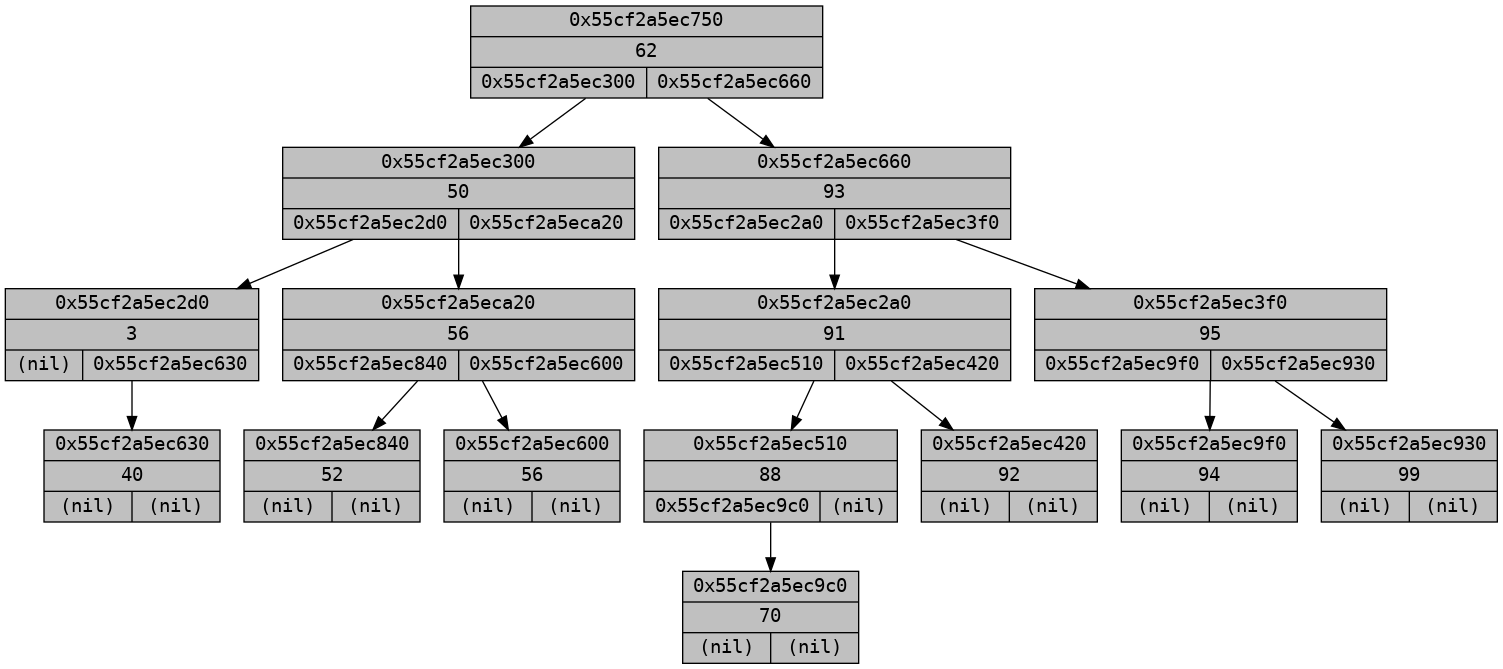
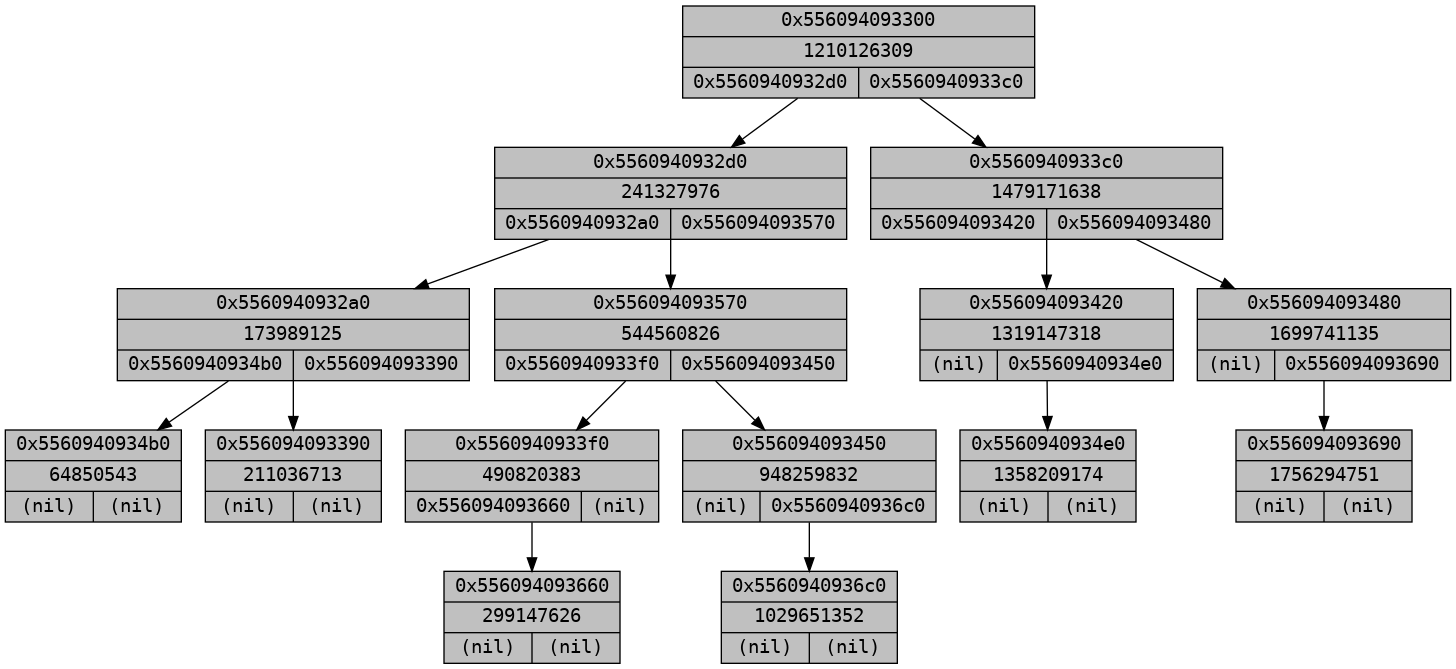
AVL balanceada

diff --git a/relatorio-2/fontes/2.arvore-avl/tree_avl.c b/relatorio-2/fontes/2.arvore-avl/tree_avl.c
@@ -172,241 +172,14 @@ int main(int argc, char **argv){
 
     srand(time(NULL));
     
-
-    //  Jeito certo
-    
     for(i = 0; i < n; i++){
-        tree_insert(&root, tree_new(rand()%100));
+        tree_insert(&root, tree_new(rand()));
     }
 
     tree_print_dot(root);
-
-
-
-
-    // Testando manualmente
-    /*
-    int v[n];
-    int sort;
-    for(i = 0; i < n; i++){
-        sort = rand()%100;
-        v[i] = sort;
-        tree_insert(&root, tree_new(sort));
-    }
-    printf("Valor da Raiz: %d\n", root->value);
-    tree_print(root);
-    struct tree_node *r = NULL;
-    r = (struct tree_node *) malloc(sizeof(struct tree_node));
-    r = search(root,15);
-    if(r == NULL)
-        printf("\n\nNULL\n\n");
-    else
-        printf("\n\nBusca Encontrada: %d\n\n", r->value);
-
-    printf("Ordem do sorteio\n");
-    for(i = 0; i < n; i++){
-        printf("%d,", v[i]);
-    }
-    printf("\n");
-
-    */
-
-   /*int op;
-   
-   do{
-    printf(""
-   "1. Inserir Aleatorio\n"
-   "2. Inserir Lista\n"
-   "3. Busca\n"
-   "0. Sair\n"
-   );
-   scanf("%d", &op);
-
-   switch (op){
-    case 1:
-        int v[n];
-        int sort;
-
-        for(i = 0; i < n; i++){
-            sort = rand()%100;
-            v[i] = sort;
-            tree_insert(&root, tree_new(sort));
-        }
-        
-        printf("Valor da Raiz: %d\n", root->value);
-        tree_print(root);
-
-        printf("Ordem do sorteio\n");
-        for(i = 0; i < n; i++){
-            printf("%d,", v[i]);
-        }
-        printf("\n");
-
-        struct tree_node *r = NULL;
-        r = (struct tree_node *) malloc(sizeof(struct tree_node));
-        r = search(root,15);
-
-        if(r == NULL)
-            printf("\n\nNULL\n\n");
-        else
-            printf("\n\nBusca Encontrada: %d\n\n", r->value);
-        break;
-    case 3:
-        int v[n];
-        int sort;
-
-        for(i = 0; i < n; i++){
-            sort = rand()%100;
-            v[i] = sort;
-            tree_insert(&root, tree_new(sort));
-        }
-        
-        printf("Valor da Raiz: %d\n", root->value);
-        tree_print(root);
-
-        printf("Ordem do sorteio\n");
-        for(i = 0; i < n; i++){
-            printf("%d,", v[i]);
-        }
-        printf("\n");
-
-        struct tree_node *r = NULL;
-        r = (struct tree_node *) malloc(sizeof(struct tree_node));
-        r = search(root,15);
-
-        if(r == NULL)
-            printf("\n\nNULL\n\n");
-        else
-            printf("\n\nBusca Encontrada: %d\n\n", r->value);
-   
-   default:
-    break;
-   }
-
-   } while (op != 0);*/
-   
-   
-
-    
-
-     
+ 
     return 0;
 }
 
 
 // gcc -Wall tree_avl.c; gcc tree_avl.c -o tree_avl; ./tree_avl > tree_avl.dot; dot -Tpng tree_avl.dot -o tree_avl.png
-
-
-
-/*
-int cdiff(struct tree_node *node){
-    int max = max(node->lchild->h, node->rchild->h);
-    int min = min(node->lchild->h, node->rchild->h);
-    return max - min;
-}
-int case(struct tree_node *node){
-    if(leftH > rightH + 1){
-        int lLeftH;
-        int lRightH;
-        lLeftH = w->lchild->lchild->h;
-        lRightH = w->lchild->rchild->h;
-
-        if(lLeftH >= lRightH)
-            return rightRotate(w);
-        else 
-            leftRightRotate(w);
-    }
-}
-
-void balance2(struct tree_node *node){
-    node = node->parent;
-    while(node != NULL){
-        if(cdiff(node) > 1){
-            c = case(node);
-        }
-    }
-}*/
-
-
-/*
-
-void balance(struct tree_node *w){
-    int leftH;
-    int rightH;
-    
-    while(w != NULL){
-        heightChild(w);
-        leftH = w->lchild->h;
-        rightH = w->rchild->h;
-
-        if(leftH > rightH + 1){
-            int lLeftH;
-            int lRightH;
-            lLeftH = w->lchild->lchild->h;
-            lRightH = w->lchild->rchild->h;
-
-            if(lLeftH >= lRightH)
-                rightRotate(w);
-            else 
-                leftRightRotate(w);
-        }
-
-        if(rightH > leftH + 1){
-            int rLeftH;
-            int rRightH;
-            rLeftH = w->rchild->lchild->h;
-            rRightH = w->rchild->rchild->h;
-
-            if(rRightH >= rLeftH)
-                return leftRotate(w);
-            else  
-                return rightLeftRotate(w);
-        }
-    }
-}
-
-void rightRotate(struct tree_node *w){
-    struct tree_node *q;
-    struct tree_node *temp;
-    q = (struct tree_node *) malloc(sizeof(struct tree_node));
-    temp = (struct tree_node *) malloc(sizeof(struct tree_node));
-
-    q = w->lchild;
-    temp = q->rchild;
-    q->rchild = w;
-    w->lchild = temp;
-    w = q;
-}
-
-void leftRotate(struct tree_node *w){
-    struct tree_node *q;
-    struct tree_node *temp;
-    q = (struct tree_node *) malloc(sizeof(struct tree_node));
-    temp = (struct tree_node *) malloc(sizeof(struct tree_node));
-
-    q = w->rchild;
-    temp = q->lchild;
-    q->lchild = w;
-    w->rchild = temp;
-    w = q;
-}
-
-void leftRightRotate(struct tree_node *w){
-    leftRotate(w->lchild);
-    rightRotate(w);
-}
-
-void rightLeftRotate(struct tree_node *w){
-    rightRotate(w->rchild);
-    leftRotate(w);
-}
-
-int heightChild(struct tree_node *w){
-    int leftH;
-    int rightH;
-    leftH = w->lchild->h;
-    rightH = w->rchild->h;
-    return 1+max(leftH, rightH);
-}
-
-*/
